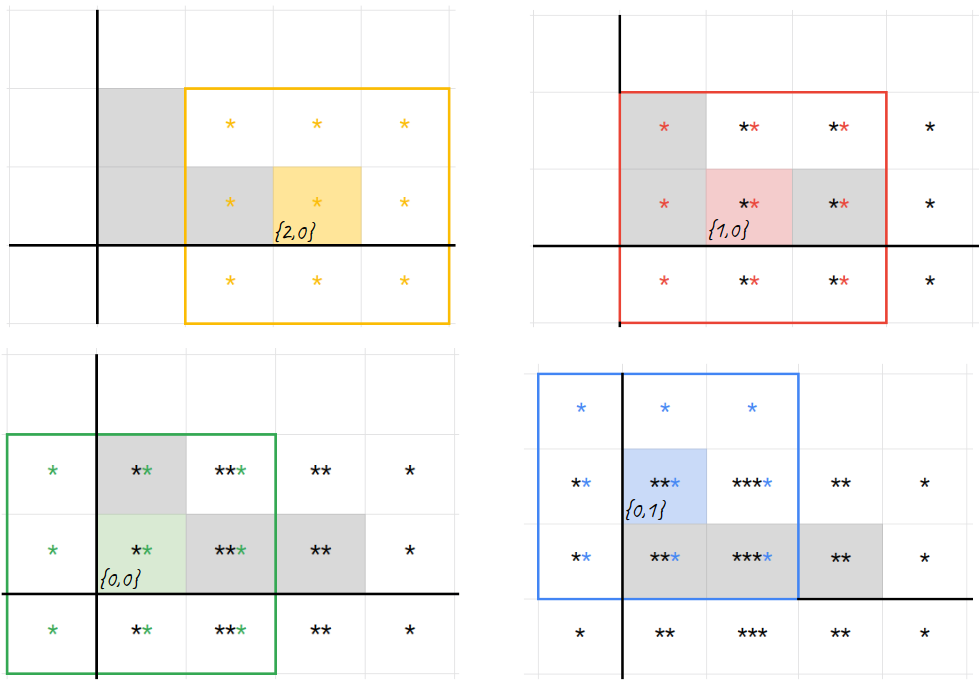
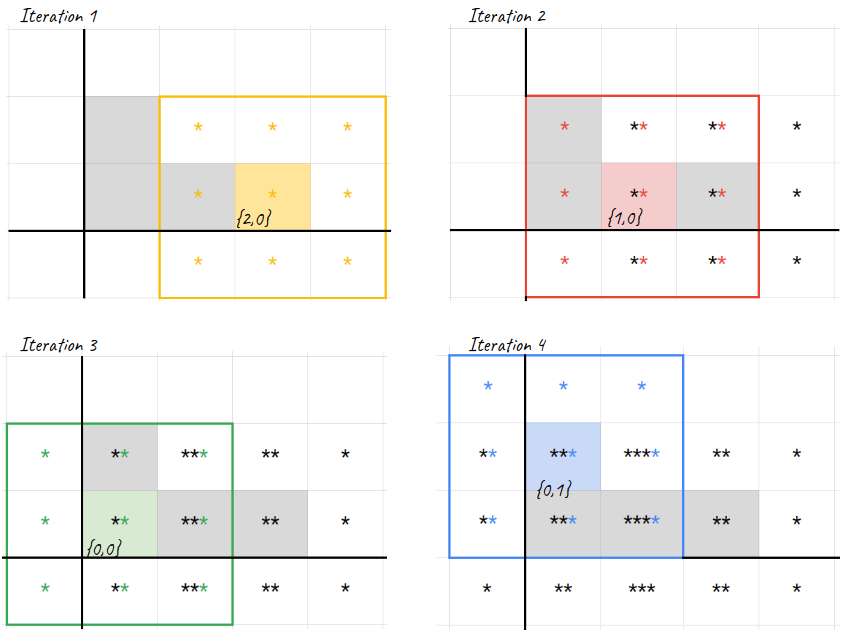
Finalise GoL article

diff --git a/content/post/game_of_life.md b/content/post/game_of_life.md
@@ -1,9 +1,8 @@
 +++
-draft = true
+draft = false
 thumbnail = "/src/game_of_life/06_ex.png"
 tags = ["crystal", "game of life", "automata"]
-categories = []
-date = "2020-06-06T18:52:41+01:00"
+date = "2020-06-20T18:52:41+01:00"
 title = "Conway's Game of Life, sparse"
 summary = "Yet another implementation of Conway's Game of Life"
 +++
@@ -11,12 +10,12 @@ summary = "Yet another implementation of Conway's Game of Life"
 ## Introduction
 A lot has been written about Conway's Game of Life. If you're reading this, chances are you've implemented a version of it yourself.
 
-This article offers a visual guide to a less-common formulation of the game and presents a surprisingly succint implementation of it, mostly for fun.
+This article offers a visual guide to a less-common formulation of the game and presents a surprisingly succinct implementation of it, mostly for fun.
 
 I'll assume you're already familiar with the game. If that's not the case, I'd recommend reading the [original article](https://web.stanford.edu/class/sts145/Library/life.pdf) published on *Scientific American* in 1970.
 
 ## Canonical formulation
-When you think of Game of Life, you probably think about a grid where live and dead cells are represented with different colors, and the following 3 rules define how to evolve the grid from the current state to the next (source: [wikipedia](https://en.wikipedia.org/wiki/Conway%27s_Game_of_Life)).
+When you think of Game of Life, you probably think about a grid where live and dead cells are represented with different colors, and the following 3 rules define how to evolve the grid from the current state to the next (source: [Wikipedia](https://en.wikipedia.org/wiki/Conway%27s_Game_of_Life)).
 
 1. Any live cell with two or three live neighbours survives.
 1. Any dead cell with three live neighbours becomes a live cell.
@@ -27,17 +26,18 @@ These rules emphasise the role of both live and dead cells and lead to a straigh
 ## A sparse formulation
 Compact as the above might be, I've always found the following, equivalent formulation more interesting.
 
-For each live cell, gather the coordinates *(i, j)* of all the cell's neighbours, plus the coordinates of the live cell itself.
+Consider an infinite grid of cells defined as per the canonical formulation. For each live cell, gather the coordinates *(i, j)* of all the cell's neighbours, plus the coordinates of the live cell itself.
 
-Now count the number of times each cell appears in the collection. The next generation is given by
-1. any cell that occurs 3 times
-1. any cell that occurs 4 times *and* is currently live.
+Now count the number of times each cell appears in the collection.
+Only the cells abiding by the following rules will be part of the next generation:
+1. Any cell that occurs 3 times
+1. Any cell that occurs 4 times *and* is currently live.
 
 ***
 
 One thing I enjoy about this formulation, is the fact that it leads to a very natural implementation based on a sparse representation of the grid, where we only keep track of live cells.
 
-Given a set of live cells `population`, the next generation can be computed as follows - the code below is in [Crystal](https://crystal-lang.org/), but your favourite language's implementation shouldn't differ much from this.
+Given a set of live cells - aptly called `population` - the next generation can be computed as follows - the code below is in [Crystal](https://crystal-lang.org/), but your favourite language's implementation shouldn't differ much from this.
 
 ```crystal
 population.flat_map { |cell| expand(cell) }
@@ -46,7 +46,7 @@ population.flat_map { |cell| expand(cell) }
   .keys
 ```
 
-where `expand` is a simple function the returns the 9 cells in the 3x3 square centered in the cell passed as argument.
+Here, `expand` is a simple function the returns the 9 cells in the 3x3 square centered in the cell passed as argument.
 
 ```crystal
 OriginSquare = [
@@ -60,14 +60,14 @@ def expand(cell)
 end
 ```
 
-Let's explore the code line by line by means of an example.
+Let's explore the code line by means of an example.
 
 Consider the L-shaped population
 ```crystal
 population = [{2, 0}, {1, 0}, {0, 0}, {0, 1}]
 ```
 
-{{< figure src="/src/game_of_life/01_ex.png" alt="The initial population `[{2, 0}, {1, 0}, {0, 0}, {0, 1}]`" caption="Figure 1. The picture shows the initial population `[{2, 0}, {1, 0}, {0, 0}, {0, 1}]` on a two-dimensional orthogonal grid of square cells. We can think of the grid as a cartesian plane where a live cell `{x, y}` is represented by a grey square with bottom left corner in `{x, y}`." >}}
+{{< figure src="/src/game_of_life/01_ex.png" alt="The initial population `[{2, 0}, {1, 0}, {0, 0}, {0, 1}]`" caption="Figure 1. The picture shows the initial population `[{2, 0}, {1, 0}, {0, 0}, {0, 1}]` on a two-dimensional orthogonal grid of square cells. We can think of the grid as a Cartesian plane where a live cell `{x, y}` is represented by a gray square with bottom left corner in `{x, y}`." >}}
 
 We iterate over the live cells and *expand* them into the neighbouring cells plus the live cell itself - see Figure 2 below.
 ```crystal
@@ -75,9 +75,9 @@ population.flat_map { |cell| expand(cell) }
 # => [{-1, 2}, {0, 2}, {1, 2}, {-1, 1}, ..., {2, -1}, {3, -1}]
 ```
 
-{{< figure src="/src/game_of_life/01_ex_aa.png" alt="Each live cell is expanded into its nighbouring square" caption="Figure 2. The picture represents the expansion of each live cell into the corresponding 3x3 square. Cells in such squares are accumulated into a collection, with repetition. Notice that the number of *stars* at the end of the iteration - bottom right picture - reflects the number of times a cell appears in an expanded square." >}}
+{{< figure src="/src/game_of_life/01_ex_aa.png" alt="Each live cell is expanded into its nighbouring square" caption="Figure 2. The picture represents the expansion of each live cell into the corresponding 3x3 square. Cells in such squares are accumulated into a collection, with repetition. Notice that the number of *stars* in each cell at the end of iteration 4 - bottom right picture - reflects the number of times a cell appears in any expanded square." >}}
 
-We now count the number of occurrences for each cell. In Crystal, this is as easy as calling `#tally` on an array.
+We now count the number of times a cell appears in the computed collection. In Crystal, this is as easy as calling `#tally` on an array. This returns a dictionary from cell to number of occurrences.
 
 ```crystal
 population.flat_map { |cell| expand(cell) }
@@ -87,7 +87,7 @@ population.flat_map { |cell| expand(cell) }
 
 {{< figure src="/src/game_of_life/06_1_ex.png" alt="The figure shows the number of occurrences for each cell in the expanded squares" caption="Figure 3. The figure shows the number of occurrences for each cell in the expanded squares." >}}
 
-Finally, we filter out any cell that doesn't match either rule 1 or rule 2 defined above.
+Finally, we filter out any cell that doesn't match either rule 1 or rule 2 defined above. This is done by invoking `.select` on the dictionary with a predicate representing the rules.
 
 ```crystal
 population.flat_map { |cell| expand(cell) }
@@ -96,7 +96,7 @@ population.flat_map { |cell| expand(cell) }
   # => {{0, 1} => 3, {0, 0} => 3, {1, 0} => 4, {1, -1} => 3}
 ```
 
-{{< figure src="/src/game_of_life/06_ex.png" alt="The figure highlights the new generation of live cells" caption="Figure 4. The figure highlights the new generation of live cells." >}}
+{{< figure src="/src/game_of_life/06_ex.png" alt="The figure highlights the new generation of live cells" caption="Figure 4. The figure highlights in bold the new generation of live cells. The light gray squares where the count is 4 are kept alive. Any cell with a count of 3 will be live in the next generation." >}}
 
 We now discard the number of occurrences, and keep the cells' coordinates.
 
@@ -108,11 +108,13 @@ population.flat_map { |cell| expand(cell) }
   # => [{0, 1}, {0, 0}, {1, 0}, {1, -1}]
 ```
 
-{{< figure src="/src/game_of_life/07_ex.png" alt="The new generation of live cells" caption="Figure 5. New generation of live cells." >}}
+{{< figure src="/src/game_of_life/07_ex.png" alt="The new generation of live cells" caption="Figure 5. The new generation of live cells is represented by the squares in light gray." >}}
+
+Excellent! Let's talk about some of the features of this algorithm, but first...
 
 ***
 
-**Challenge.** Now that we've discussed a script to evolve a population, can you extract this into a function or instance method so that we can run an arbitrary number of evolutions? Something like
+**Challenge.** Now that we've discussed a script to evolve a population, can you extract this into a function or instance method, so that we can run an arbitrary number of evolutions? I'm thinking about something like
 ```crystal
 new_population = GameOfLife.evolve(population, times: 20)
 ```
@@ -120,11 +122,18 @@ new_population = GameOfLife.evolve(population, times: 20)
 ## Some notes on efficiency
 The memory-efficiency of the sparse implementation makes evolving some configurations feasible, where they wouldn't be on the dense one. In particular, we can cope with cells patterns moving arbitrarily far from each other without going out of memory. This is not true for the dense implementation, where an initial population featuring, for example, two [spaceships](https://en.wikipedia.org/wiki/Spaceship_(cellular_automaton)) heading in different directions will exhaust your memory fairly quickly.
 
-The sparse implementation is more memory-efficient than the dense one, but the battle for best performance is totally open and depends on the configuration we're evolving. If you're thinking the dense implementation might enjoy performance gains thanks to GPU architectures, then you're [right on point](https://www.google.com/search?q=gpu+game+of+life).
+I like how the sparse implementation encodes a strong system invariant: in terms of state, nothing can ever change far from live cells.
 
-I also like how the sparse implementation encodes a strong system invariant: in terms of state, nothing can ever change far from live cells.
+Hence, the sparse implementation is more memory-efficient than the dense one, but the battle for best performance is totally open and depends on the configuration we're evolving. If you're thinking that the dense implementation might enjoy performance gains thanks to GPU architectures, then you're [right on point](https://www.google.com/search?q=gpu+game+of+life).
 
-**Challenge.** No mattern the underlying implementation, printing a grid on the screen still poses a challenge, as we're materialising a possibly very large grid of cells. Can you think of strategies to display the current state of the grid that don't require printing it in its entirety?
+***
+
+**Challenge.** No matter the underlying implementation, printing a grid on the screen still poses a challenge, as we're materialising a possibly very large grid of cells. Can you think of strategies to display the current state of the grid that don't require printing it in its entirety?
+
+## Further reading
+* In case you missed it, here is the [original article](https://web.stanford.edu/class/sts145/Library/life.pdf) where Conway's Game of Life was introduced.
+* *Towards data science* offers an [exhaustive coverage]((https://towardsdatascience.com/from-scratch-the-game-of-life-161430453ee3)) of both dense and sparse implementations of Conway's Game of Life in Python and in Haskel.
+* If you'd like to know more about the Crystal programming language, then you can check out [this page](https://crystal-lang.org/).
 
 ##
 
